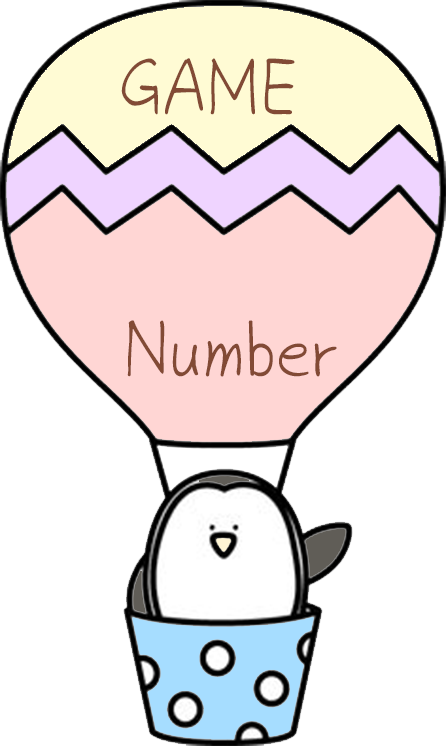
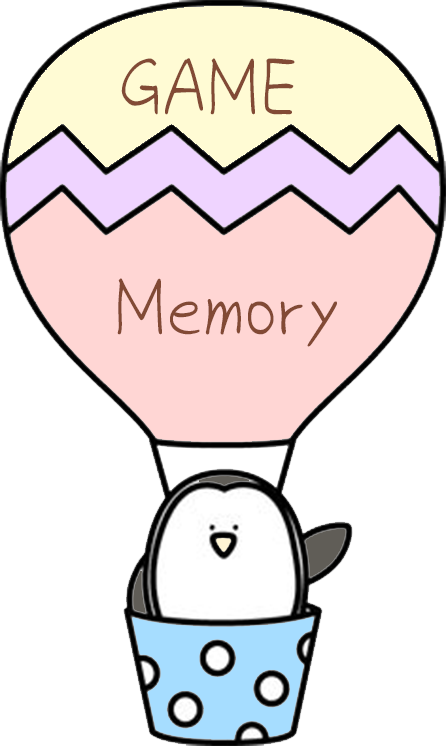
home: pictures changed

Changed region(s): [[0.2623, 0.3695, 0.7578, 0.5234]]

diff --git a/home.html b/home.html
@@ -10,7 +10,7 @@
 <div class="intro">Welcome to Sky Wonder!! There are small games for children. Enjoy :)</div>
 <div class="content">
 	<img class="floating" id="C1" SRC="pic/C1.png">
-			<a href="ChildGame.html"><img class="floating" id="B1" SRC="pic/B1.png"></a>
+			<a href="memoryGame.html"><img class="floating" id="B1" SRC="pic/B1.png"></a>
 			<img class="floating" id="C2" SRC="pic/C1.png">
 			<a href="ChildGame.html"><img class="floating" id="B2" SRC="pic/B2.png"></a>		
 			<img class="floating" id="C3" SRC="pic/C1.png">
